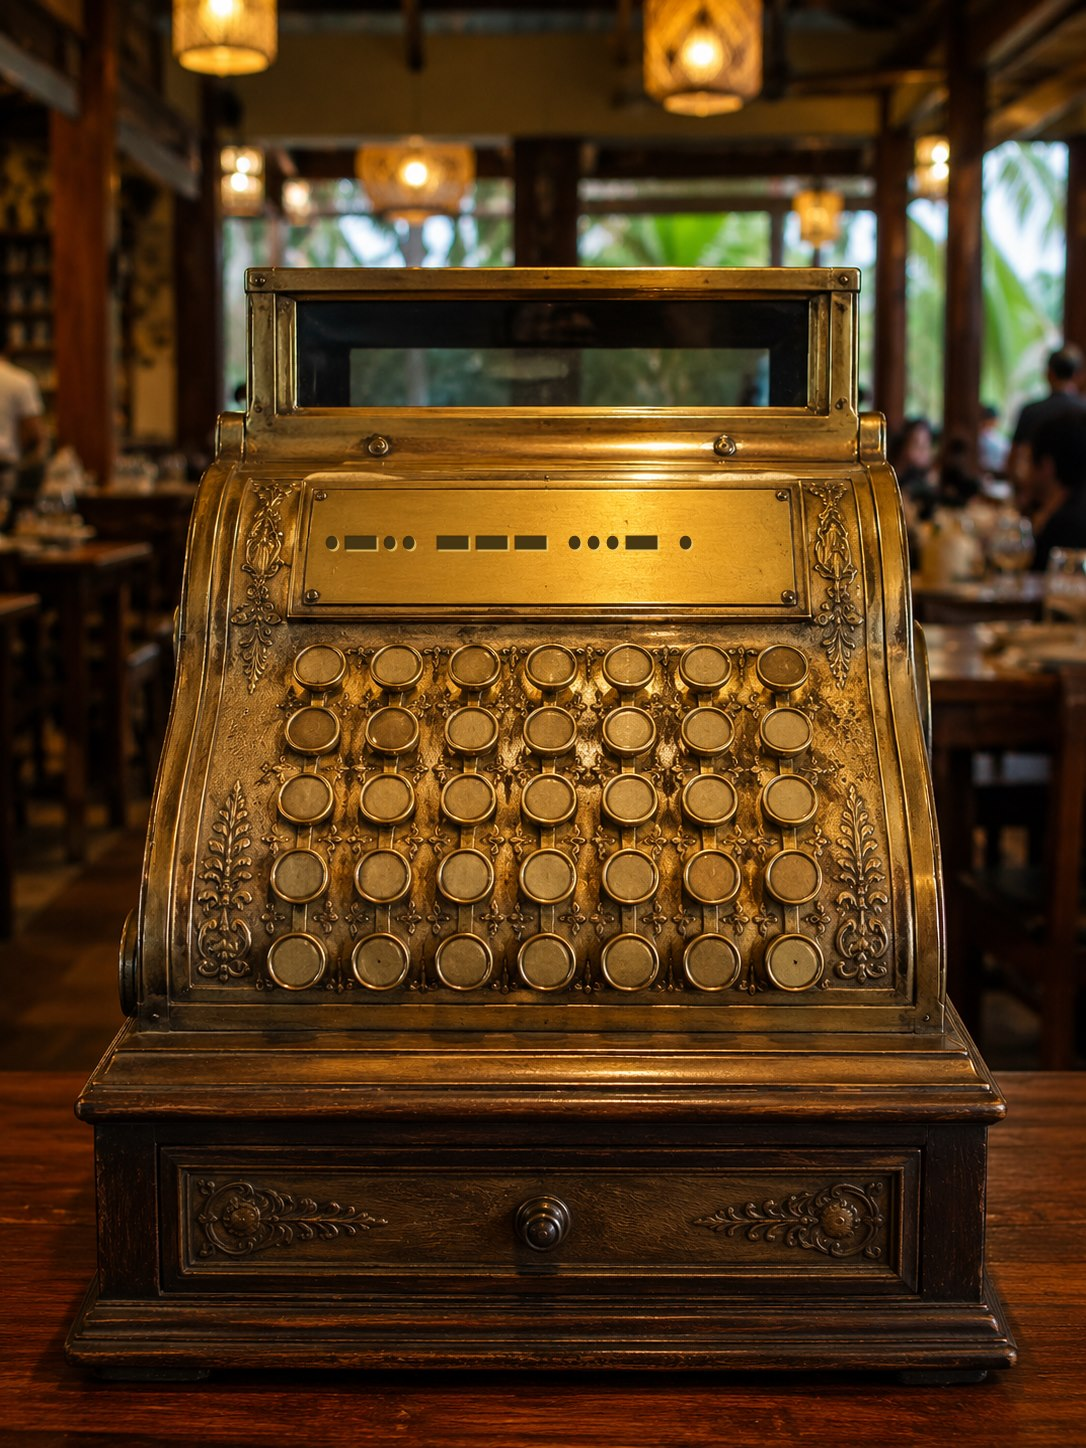
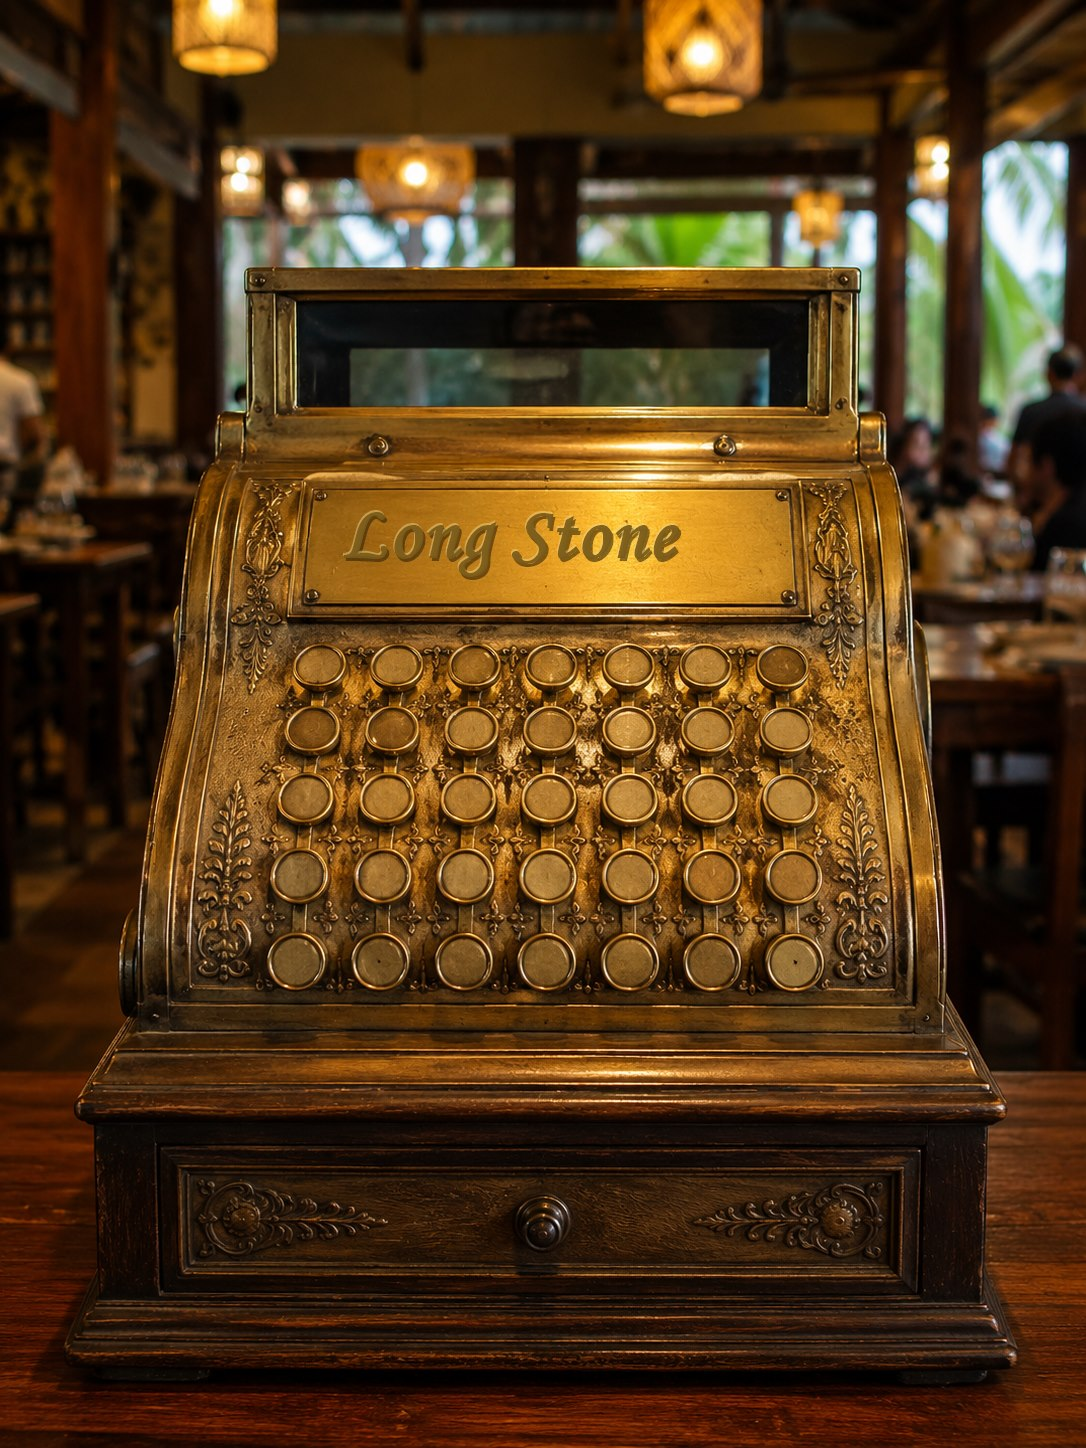
방탈출: 슈퍼트리 비석(2947)+등록기 명판 Long Stone 교체(모스는 문제쪽으로 이동 예정)

Changed region(s): [[0.3039, 0.3419, 0.6381, 0.404]]

diff --git a/index.html b/index.html
@@ -890,7 +890,7 @@ const MAPS = {
       //   위 놋쇠 명판의 점·선 각인 = LOVE 모스(내가 오버레이) — 해독해서 나중에 쓸 힌트.
       { x:62,y:55, w:16,h:12, label:"안쪽 계산대", closeup:{
         img:"img/closeup/bkt_reg.jpg", badge:"🧾",
-        caption:"🧾 카운터의 골동품 금전등록기.\n위 놋쇠판에 점과 선이 새겨져 있다.\n금액 4자리를 입력할 수 있을 것 같다.",
+        caption:"🧾 카운터의 골동품 금전등록기.\n위 놋쇠판에 흘림체로 뭔가 적혀 있다.\n금액 4자리를 입력할 수 있을 것 같다.",
         action:{type:"numlock", len:4, answer:"2947",
           success:"차르릉! 서랍이 열렸다.", setFlag:"bkt_reg",
           prize:{ img:"img/closeup/bkt_reg_open.jpg", badge:"📜", label:"열린 서랍",
@@ -978,9 +978,15 @@ const MAPS = {
   supertree:{
     name:"슈퍼트리 그로브", sub:"밤이면 불이 들어오는 인공나무 숲", photo:"img/supertree.jpg",
     hotspots:[
-      { x:50,y:46, w:72,h:46, label:"슈퍼트리", closeup:{
+      { x:50,y:40, w:72,h:38, label:"슈퍼트리", closeup:{
         anim:["tree_off","tree_red","tree_blue","tree_green","tree_blue","tree_green","tree_red","tree_green"], animMs:2000,
         badge:"🌳", caption:"",
+        action:{type:"clue"} }},
+      // ★덩굴 덮인 비석(북쑥 제작 2026-08-14) — 각인·덩굴 무늬 = 세로로 늘어난 2947 (폰 눕혀 비스듬히 보면 보임).
+      //   힌트 = 바쿠테 등록기 명판 "Long Stone". 답 입력 = 바쿠테 금전등록기.
+      { x:50,y:82, w:40,h:18, label:"덩굴 덮인 비석", closeup:{
+        img:"img/closeup/stree_slab.jpg", badge:"🪨",
+        caption:"🪨 기둥 앞에 세워진 길쭉한 돌비석.\n덩굴과 홈이 뒤엉켜 묘한 무늬를 그리고 있다.",
         action:{type:"clue"} }},
     ],
     exits:[{to:"marina", label:"마리나", emoji:"🏨", dir:"left"}]
